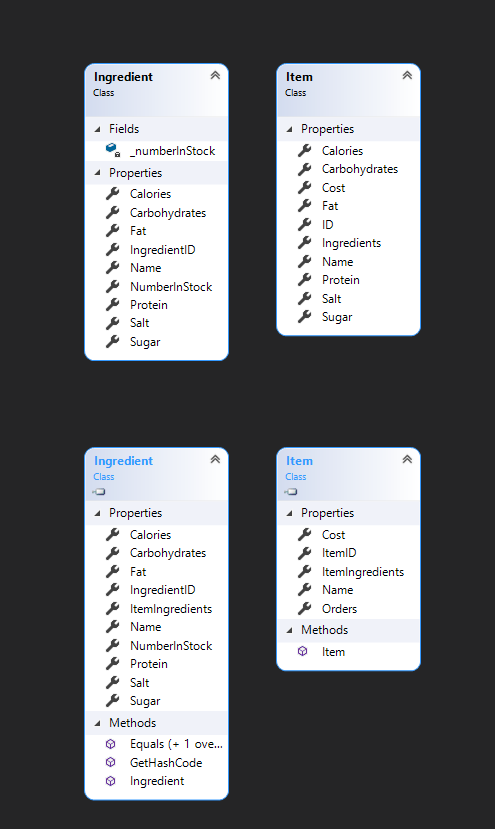
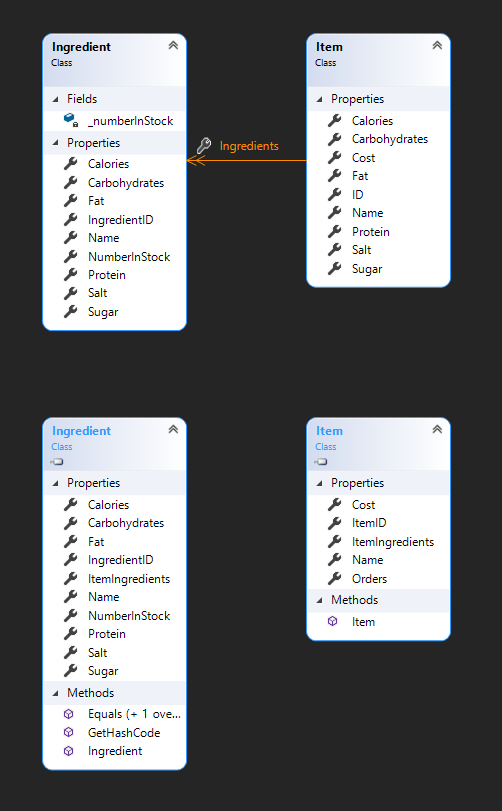
updated readme and content

diff --git a/README.md b/README.md
@@ -1,8 +1,8 @@
 # Super Service (v2.00)
 
-### Project structure & diagrams
+## Project structure & diagrams
 
-#### <u>DB models and View models</u>
+#### How did I structure my data?
 
 ![Model structure](https://github.com/Layland-projects/SuperService_MVC/blob/master/ReadMeContent/ModelDiagram.png?raw=true)
 
@@ -13,3 +13,25 @@ Firstly I extended my DB models used in this project to have additional fields I
 ![Front end structure](https://github.com/Layland-projects/SuperService_MVC/blob/master/ReadMeContent/HelperDiagram.png?raw=true)
 
 I set up some helper classes in the front end project that required an instance of the interface my back end service implements. This allowed me to expose and inject this dependency, meaning I could test my helper methods without relying on an actual DB.
+
+#### Also...
+
+![API Diagram](https://github.com/Layland-projects/SuperService_MVC/blob/master/ReadMeContent/APIDiagram.png?raw=true)
+
+I set up a small API to allow me to be able to get item information out and use it in the JaveScript on some of the pages. As you can see there is no relation between the bottom items (the DB Models) and the top items (the API Models), this was intentional.
+
+I did this for 2 reasons:
+
+1. It meant that If these DB models started to store more data, perhaps sensitive data they weren't by default being sent back through the API for all to see.
+2. Many to many relations in objects don't map out well to Json and cause problems when trying to Serialize or Deserialize it so this gave a flatter representation of what an Item actually is.
+
+## Summary
+
+I got a few things to take away from doing this:
+
+1. Working without any amount of project board or user stories on a task like this is difficult (I intended to not use them to see the level of impact it would have). Although writing out all the user stories with strict definitions takes time, it would have saved me time in the long run and helped keep me focused on one task at a time.
+2. MVC by nature is a pattern intended to have a proper separation of concerns and keep your couplings loose, almost giving you a modular feel with your application. So if necessary you can swap out an entire layer in place of another (change DB providers or formats for instance).
+3. Compared to WPF it feels like you're working with far less constraints, having JavaScript as an additional tool that you can use for almost anything was so useful while doing this. It meant that I could manipulate the DOM based off the users actions for an overall better feel.
+4. Styling, although more complicated with CSS than WPF's XAML styling there is far more documentation out there to get you started, good libraries such as bootstrap to help you along too.
+
+Overall I really enjoyed doing this, although I didn't get to implement all of the features I had in my original project I added some new things and I think gave it a better overall aesthetic.
